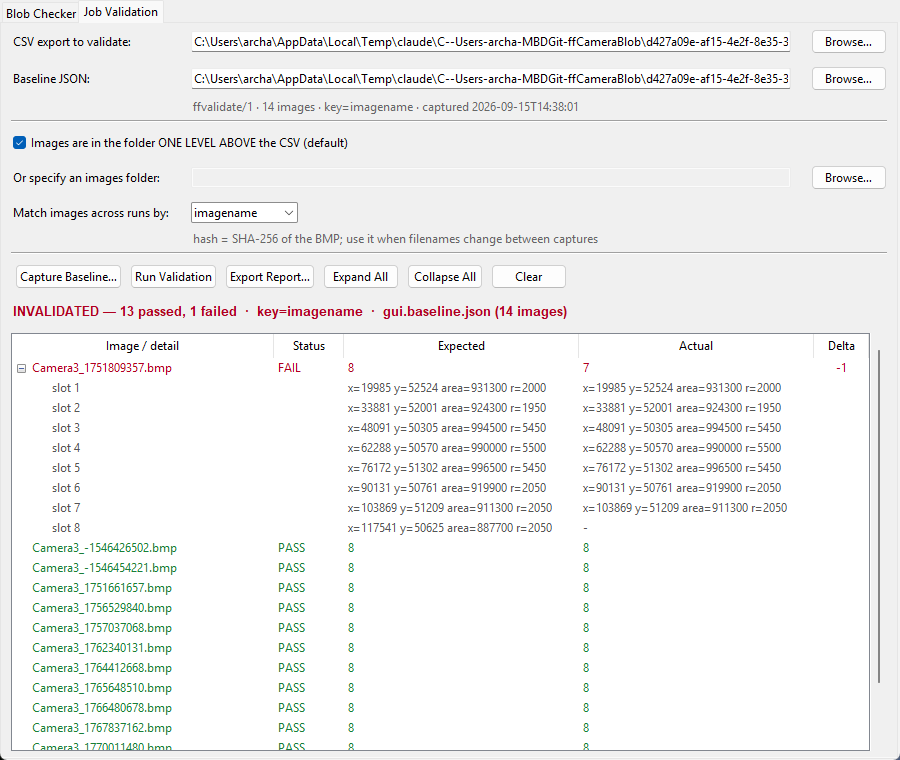
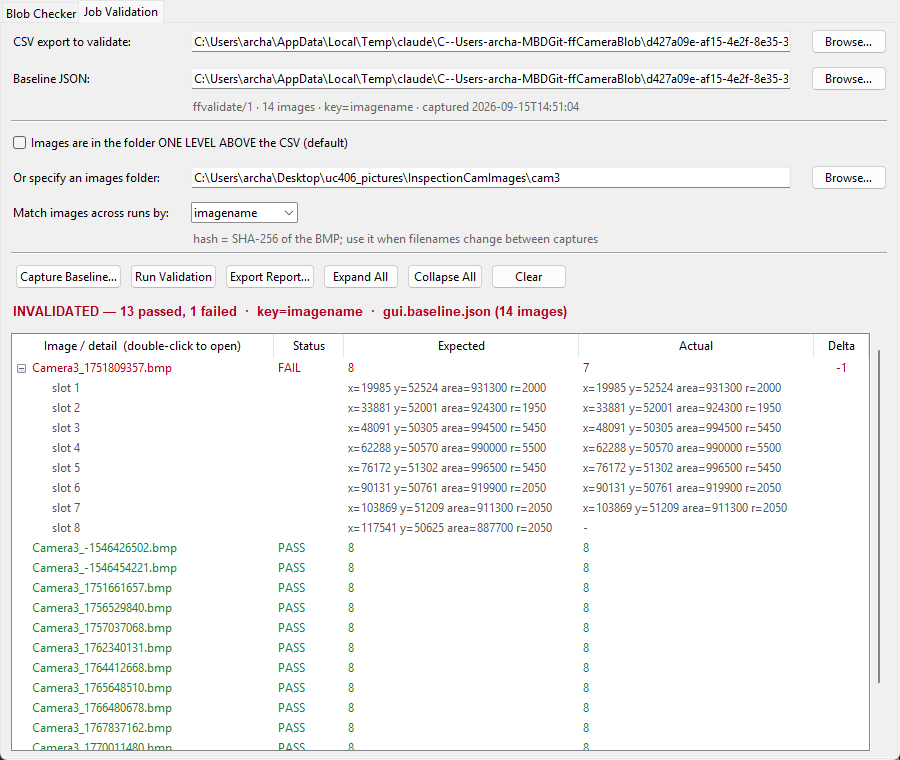
feat(gui): add image opening to validation tree
- Double-click or right-click to open images
- Resolve paths from run's images directory
- Add context menu for image actions

diff --git a/ff_blob_checker_gui.py b/ff_blob_checker_gui.py
@@ -3,6 +3,8 @@ import re
 import csv
 import json
 import shutil
+import subprocess
+import sys
 import time
 import functools
 import traceback
@@ -95,6 +97,7 @@ class App(tk.Tk):
         self.val_summary_var = tk.StringVar(value="No validation run yet.")
         self.val_tree = None      # ttk.Treeview, set in _build_validation_tab
         self.val_report = None    # last report dict, for Export Report…
+        self.val_images_dir = ""  # where the tree's rows resolve their BMPs
 
         # UI Layout
         self._build_ui()
@@ -251,7 +254,7 @@ class App(tk.Tk):
         tree_frame.grid(row=11, column=0, columnspan=3, sticky="nsew", **pad)
         self.val_tree = ttk.Treeview(tree_frame, columns=("status", "expected", "actual", "delta"),
                                      show="tree headings", selectmode="browse", height=16)
-        self.val_tree.heading("#0", text="Image / detail")
+        self.val_tree.heading("#0", text="Image / detail  (double-click to open)")
         self.val_tree.column("#0", width=250, minwidth=160, stretch=True)
         # Expected/Actual hold the drill-down blob descriptions
         # ("x=117541 y=50625 area=887700 r=2050"), so they need real width.
@@ -272,6 +275,16 @@ class App(tk.Tk):
         sb.grid(row=0, column=1, sticky="ns")
         tree_frame.rowconfigure(0, weight=1)
         tree_frame.columnconfigure(0, weight=1)
+
+        # Open the BMP behind a row. Double-click acts on image rows only;
+        # detail rows fall through so the tree keeps its normal behavior.
+        self.val_tree.bind("<Double-1>", self.on_tree_double_click)
+        self.val_menu = tk.Menu(self, tearoff=0)
+        self.val_menu.add_command(label="Open image", command=self.open_selected_image)
+        self.val_menu.add_command(label="Show in folder", command=self.reveal_selected_image)
+        self.val_menu.add_separator()
+        self.val_menu.add_command(label="Copy image path", command=self.copy_selected_image_path)
+        self.val_tree.bind("<Button-3>", self.on_tree_right_click)
 
         vf.rowconfigure(11, weight=1)
         vf.columnconfigure(1, weight=1)
@@ -418,6 +431,7 @@ class App(tk.Tk):
                 for r in rows if r["status"] == "FAIL"],
             "rows": rows,
             "baseline_images": len(expected),
+            "images_dir": opts["images_dir"],
         }
 
     @guarded
@@ -441,6 +455,7 @@ class App(tk.Tk):
     def _val_render(self, report):
         tree = self.val_tree
         tree.delete(*tree.get_children())
+        self.val_images_dir = report.get("images_dir", "")
 
         rows = report["rows"]
         order = {"FAIL": 0, "MISSING": 1, "UNEXPECTED": 2, "UNKEYED": 3, "PASS": 4}
@@ -527,6 +542,7 @@ class App(tk.Tk):
         self._val_load_baseline_header()
         self.val_report = None
         self.val_tree.delete(*self.val_tree.get_children())
+        self.val_images_dir = opts["images_dir"]
         for key, rec in mapping.items():
             self.val_tree.insert("", "end", text=rec["image"],
                                  values=("CAPTURED", ffv.fmt(rec[ffv.COUNT_FIELD]), "", ""),
@@ -554,6 +570,76 @@ class App(tk.Tk):
             json.dump(payload, f, indent=2)
             f.write("\n")
         messagebox.showinfo(APP_TITLE, "Report written to:\n%s" % out)
+
+    # --- opening the image behind a row --------------------------------
+
+    def _val_image_path(self, iid):
+        """Resolve a tree row to its BMP on disk.
+
+        Detail rows ("slot 3") carry no image of their own, so walk up to the
+        top-level row, whose text is the image name. Raises ValueError with
+        user-facing text when there is nothing to open.
+        """
+        if not iid:
+            raise ValueError("Select an image row first.")
+        while self.val_tree.parent(iid):
+            iid = self.val_tree.parent(iid)
+        name = self.val_tree.item(iid, "text").strip()
+        if not name:
+            raise ValueError("That row has no image associated with it.")
+        if not self.val_images_dir:
+            raise ValueError("No images folder is known yet — run a validation first.")
+        path = os.path.join(self.val_images_dir, name)
+        if not os.path.isfile(path):
+            raise ValueError("Image not found on disk:\n%s\n\nCheck the images folder "
+                             "setting — it is currently:\n%s" % (path, self.val_images_dir))
+        return path
+
+    def _open_path(self, path):
+        """Hand a path to the OS default handler."""
+        if hasattr(os, "startfile"):          # Windows, which is what ships
+            os.startfile(path)                # noqa: S606 - intended
+        elif sys.platform == "darwin":
+            subprocess.Popen(["open", path])
+        else:
+            subprocess.Popen(["xdg-open", path])
+
+    @guarded
+    def on_tree_double_click(self, event):
+        iid = self.val_tree.identify_row(event.y)
+        if not iid or self.val_tree.parent(iid):
+            return None                       # detail row: let the tree do its thing
+        self._open_path(self._val_image_path(iid))
+        return "break"                        # don't also toggle the row open
+
+    @guarded
+    def on_tree_right_click(self, event):
+        iid = self.val_tree.identify_row(event.y)
+        if not iid:
+            return
+        self.val_tree.selection_set(iid)
+        self.val_tree.focus(iid)
+        self.val_menu.tk_popup(event.x_root, event.y_root)
+
+    @guarded
+    def open_selected_image(self):
+        self._open_path(self._val_image_path(self.val_tree.focus()))
+
+    @guarded
+    def reveal_selected_image(self):
+        path = self._val_image_path(self.val_tree.focus())
+        if sys.platform == "win32":
+            # /select, needs a native path and must not be quoted by the shell
+            subprocess.Popen(["explorer", "/select,", os.path.normpath(path)])
+        else:
+            self._open_path(os.path.dirname(path))
+
+    @guarded
+    def copy_selected_image_path(self):
+        path = self._val_image_path(self.val_tree.focus())
+        self.clipboard_clear()
+        self.clipboard_append(path)
+        self.val_summary_var.set("Copied to clipboard: %s" % path)
 
     @guarded
     def val_expand_all(self):

diff --git a/CLAUDE.md b/CLAUDE.md
@@ -115,6 +115,12 @@ images. Y values cluster in 48000–54000 (480–540 px), a narrow horizontal ba
     hands back the trailer row. A regression gate built on it would report false drift and could
     silently skip rows. `_val_compute` deliberately contains no Tk calls, so it stays movable to
     a worker thread; `_val_render` owns all the widget updates.
+    Rows are click-to-open: `_val_image_path()` walks up from any row (a `slot N` detail row
+    included) to the top-level image row and joins its name onto `self.val_images_dir`, which is
+    set by `_val_render` and `capture_baseline` from the run's options — *not* re-derived from
+    the CSV, so a custom images folder is honored. `<Double-1>` returns `"break"` on an image row
+    to suppress the tree's own expand-toggle, and returns `None` on detail rows so they behave
+    normally. `_open_path` uses `os.startfile` on Windows, which is what ships.
   - The `guarded` decorator wraps every tab-2 handler, because Tk swallows callback exceptions
     silently (that is exactly how the `median(None)` bug below hides). Internal helpers raise
     plain `ValueError`; `guarded` turns them into a dialog at the boundary. Note it is applied

diff --git a/README.md b/README.md
@@ -54,6 +54,12 @@ actual count, and a delta; failing rows expand to show the expected blob slots
 against the actual ones, so you can see *which* feature stopped registering.
 **Capture Baseline…** writes a new baseline next to the CSV.
 
+**Double-click any row to open its `.bmp`** in your default image viewer —
+including a `slot N` detail row, which opens the image it belongs to. Right-click
+for **Open image**, **Show in folder**, and **Copy image path**. Images resolve
+against the images-folder setting, so if a picture won't open, check that first;
+the error names both the path it tried and the folder it used.
+
 ### CLI
 
 ```bash
